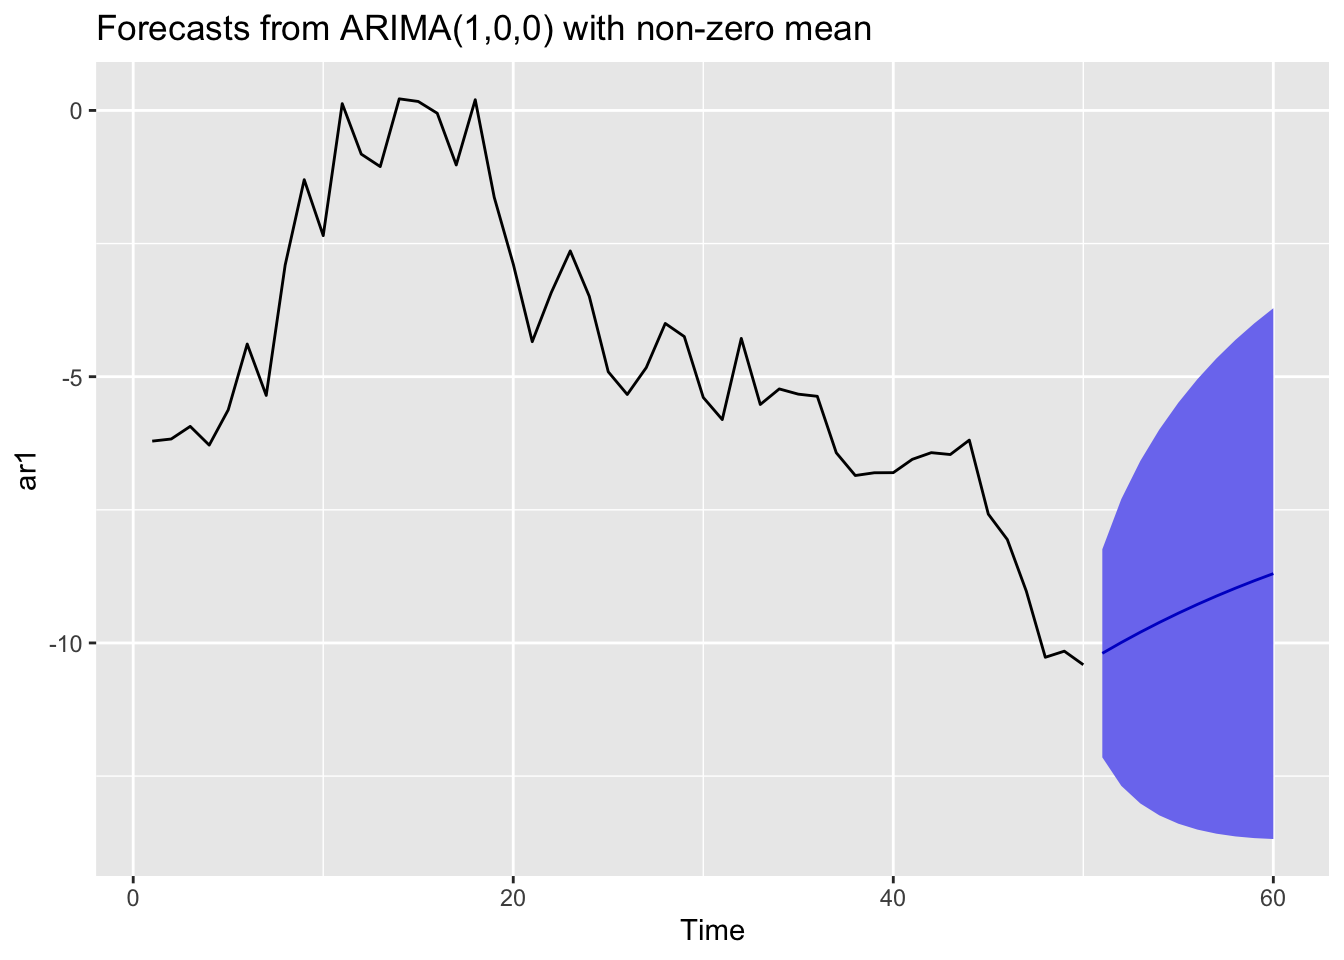
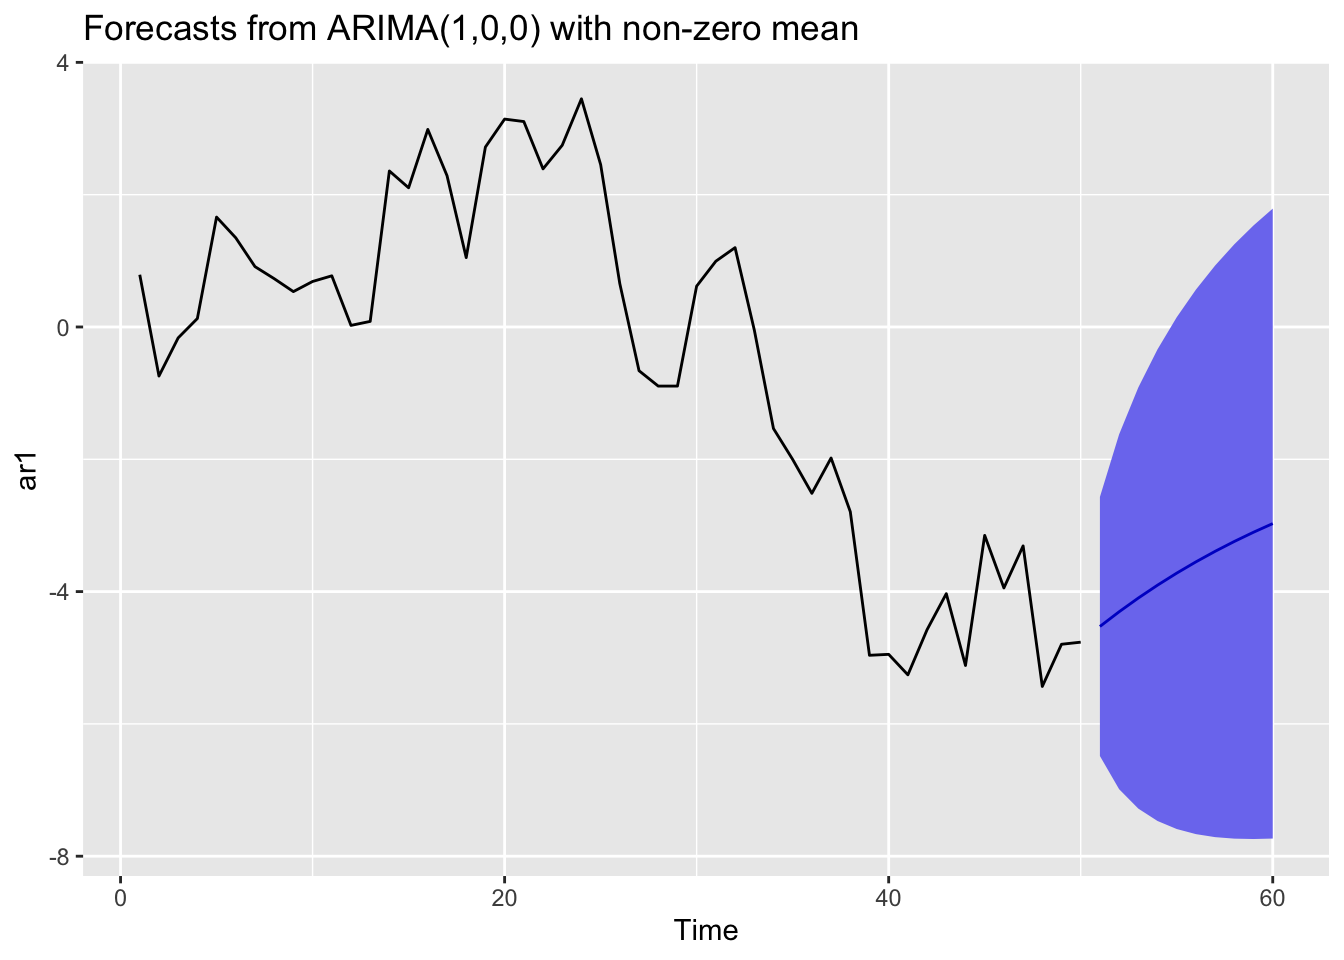
Added video to intro page

diff --git a/docs/intro.html b/docs/intro.html
@@ -157,6 +157,10 @@ code span.wa { color: #60a0b0; font-weight: bold; font-style: italic; } /* Warni
             <section class="normal" id="section-">
 <div id="intro" class="section level1">
 <h1><span class="header-section-number"> 1</span> Introduksjon til tidsrekker</h1>
+<div style="padding:75% 0 0 0;position:relative;">
+<iframe src="https://vimeo.com/showcase/7660844/embed" allowfullscreen frameborder="0" style="position:absolute;top:0;left:0;width:100%;height:100%;">
+</iframe>
+</div>
 <div id="kontrollspørsmål" class="section level2">
 <h2><span class="header-section-number">1.1</span> Kontrollspørsmål</h2>
 <ol style="list-style-type: decimal">
@@ -185,7 +189,7 @@ code span.wa { color: #60a0b0; font-weight: bold; font-style: italic; } /* Warni
 </div>
 <div id="r-øving" class="section level2">
 <h2><span class="header-section-number">1.3</span> R-øving</h2>
-<p>Vi har lastet ned den daglige prisen på Eqinoraksjen over en 5-års periode fra Oslo Børs’ hjemmeside. Vi laster inn datasettet som før ved hjelp av <code>readxl</code>-pakken, og henter ut den aktuelle kolonnen. Legg merke til at vi bruker <code>rev()</code>-funksjonen til å reversere rekkefølgen til observasjonene slik at den første verdien komme først:</p>
+<p>Vi har lastet <a href="./equinor.xlsx">ned den daglige prisen på Eqinoraksjen</a> over en 5-års periode fra Oslo Børs’ hjemmeside. Vi laster inn datasettet som før ved hjelp av <code>readxl</code>-pakken, og henter ut den aktuelle kolonnen. Legg merke til at vi bruker <code>rev()</code>-funksjonen til å reversere rekkefølgen til observasjonene slik at den første verdien komme først:</p>
 <div class="sourceCode" id="cb1"><pre class="sourceCode r"><code class="sourceCode r"><a class="sourceLine" id="cb1-1" data-line-number="1"><span class="kw">library</span>(readxl)</a>
 <a class="sourceLine" id="cb1-2" data-line-number="2">equinor &lt;-<span class="st"> </span><span class="kw">read_excel</span>(<span class="st">&quot;equinor.xlsx&quot;</span>)</a>
 <a class="sourceLine" id="cb1-3" data-line-number="3">pris &lt;-<span class="st"> </span><span class="kw">rev</span>(equinor<span class="op">$</span>Siste)                </a></code></pre></div>
@@ -198,8 +202,7 @@ code span.wa { color: #60a0b0; font-weight: bold; font-style: italic; } /* Warni
 <div class="sourceCode" id="cb4"><pre class="sourceCode r"><code class="sourceCode r"><a class="sourceLine" id="cb4-1" data-line-number="1">pris_glatt5 &lt;-<span class="st"> </span><span class="kw">rollmean</span>(pris, <span class="dt">k =</span> <span class="dv">5</span>, <span class="dt">fill =</span> <span class="ot">NA</span>)</a></code></pre></div>
 <p>Da får vi ut en ny vektor med lik lengde som den vi hadde, og som inneholder den glattede versjonen. Den fyller opp verdiene i starten og slutten som vi ikke kan regne ut med et glidende gjennomsnitt med NA, slik at vi kan tegne inn den glattede versjonen i samme plott som vi viste selve tidsrekken:</p>
 <div class="sourceCode" id="cb5"><pre class="sourceCode r"><code class="sourceCode r"><a class="sourceLine" id="cb5-1" data-line-number="1"><span class="kw">lines</span>(pris_glatt5, <span class="dt">col =</span> <span class="st">&quot;red&quot;</span>)</a></code></pre></div>
-<p>Dersom du er interessert kan du lese her om hvordan det glidende gjennomsnittet blir brukt som en investeringsstrategi:</p>
-<p>[<a href="https://tradingsim.com/blog/simple-moving-average/" class="uri">https://tradingsim.com/blog/simple-moving-average/</a>]</p>
+<p>Dersom du er interessert kan du lese mer <a href="https://tradingsim.com/blog/simple-moving-average/">her</a> om hvordan det glidende gjennomsnittet blir brukt som en investeringsstrategi.</p>
 <p>Tanken er at det glidende gjennomsnittet representerer den langsiktige trenden. Dersom tidrekken ligger under det glidende gjennomsnittet tolkes det som at aksjen er på vei nedover, og motsatt: dersom prisen ligger over det glidende gjennomsnittet, så er det et tegn på at aksjen er på vei oppover. Når de to seriene krysser hverandre går “alarmen”, og man tar stilling til om man skal kjøpe eller selge.</p>
 <p>Vindusstørrelsen velger man ut fra hvor hyppig man handler. For profesjonelle investorer som driver med handel i høy hastighet kan kanskje 5-dagersviduet som vi regnet ut over være nok. Andre med mellomlang og lang sikt vil gjerne bruke et vindu på 50 eller 200 dager.</p>
 <p><strong>Oppgave:</strong> Regn ut et glidende gjennomsnitt med vindusstørrelse 200 for Equinoraksjen, og tegn det inn i figuren du har laget. Hjelper denne figuren deg til å lage en investeringsstrategi?</p>

diff --git a/docs/ar.html b/docs/ar.html
@@ -190,18 +190,18 @@ code span.wa { color: #60a0b0; font-weight: bold; font-style: italic; } /* Warni
 ## 
 ## Residuals:
 ##      Min       1Q   Median       3Q      Max 
-## -1.62983 -0.77336 -0.01822  0.35504  2.61920 
+## -2.16572 -0.57998 -0.01161  0.55218  2.41118 
 ## 
 ## Coefficients:
 ##             Estimate Std. Error t value Pr(&gt;|t|)    
-## (Intercept) -0.19893    0.28830   -0.69    0.494    
-## lagged_Y     0.97534    0.05445   17.91   &lt;2e-16 ***
+## (Intercept) -0.13381    0.14504  -0.923    0.361    
+## lagged_Y     0.95407    0.05422  17.597   &lt;2e-16 ***
 ## ---
 ## Signif. codes:  0 &#39;***&#39; 0.001 &#39;**&#39; 0.01 &#39;*&#39; 0.05 &#39;.&#39; 0.1 &#39; &#39; 1
 ## 
-## Residual standard error: 1.005 on 47 degrees of freedom
-## Multiple R-squared:  0.8722,	Adjusted R-squared:  0.8695 
-## F-statistic: 320.9 on 1 and 47 DF,  p-value: &lt; 2.2e-16</code></pre>
+## Residual standard error: 1.001 on 47 degrees of freedom
+## Multiple R-squared:  0.8682,	Adjusted R-squared:  0.8654 
+## F-statistic: 309.7 on 1 and 47 DF,  p-value: &lt; 2.2e-16</code></pre>
 <p>Vi ser at vårt estimat av <span class="math inline">\(\phi\)</span>, som i regresjonutskriften er koeffisienten til <code>lagged_Y</code>, er i nærheten av den sanne verdien 0.95, men med så få observasjoner kan det godt hende at ditt estimat er noe forskjellig. Poenget er: vi kan bruke lineær regresjon til å estimere koeffisientene i en AR-modell basert på observasjoner.</p>
 <p>Som i forrige oppgave er pakken <code>forecast</code> svært nyttig for estimering og predikering:</p>
 <div class="sourceCode" id="cb17"><pre class="sourceCode r"><code class="sourceCode r"><a class="sourceLine" id="cb17-1" data-line-number="1"><span class="kw">library</span>(forecast)</a></code></pre></div>
@@ -212,11 +212,11 @@ code span.wa { color: #60a0b0; font-weight: bold; font-style: italic; } /* Warni
 ## 
 ## Coefficients:
 ##          ar1     mean
-##       0.9486  -6.2373
-## s.e.  0.0407   2.1656
+##       0.9358  -1.0679
+## s.e.  0.0456   1.7331
 ## 
-## sigma^2 estimated as 0.9936:  log likelihood=-70.92
-## AIC=147.83   AICc=148.35   BIC=153.57</code></pre>
+## sigma^2 estimated as 0.9981:  log likelihood=-70.92
+## AIC=147.84   AICc=148.36   BIC=153.58</code></pre>
 <p>I første omgang kan vi legge merke til at vi har spesifisert <em>hvilken</em> modell vi ønsker å estimere gjennom argumentet <code>order = c(1, 0, 0)</code>, der ett-tallet angir AR-modellens orden <span class="math inline">\(p\)</span>, som i dette tilfellet er 1. Dersom du mistenker at AR(2)-modellen gir en bedre beskrivelse av tidsrekken din, kan du endre til <code>order = c(2, 0, 0)</code>. Vi kommer tilbake til spørsmålet om hvordan du i praksis kan velge den beste modellen for et gitt praktisk problem.</p>
 <p>Legg merke til at de to estimatene ikke er identiske selv om vi bruker det samme tidsrekken. Det er fordi <code>arima()</code>-funksjonen ikke bruker minste kvadraters metode til å regne ut estimatene (slik <code>lm()</code> gjør), men heller bruker en annen estimeringsteknikk som heter <em>maximum likelihood</em>.</p>
 <p><strong>3. Predikere.</strong> For predikering bruker vi funksjonen <code>forecast()</code>, som tar en estimert modell som input, og som bruker modellen til å skrive frem tidsrekken ved å estimere fremtidige verdier.</p>
